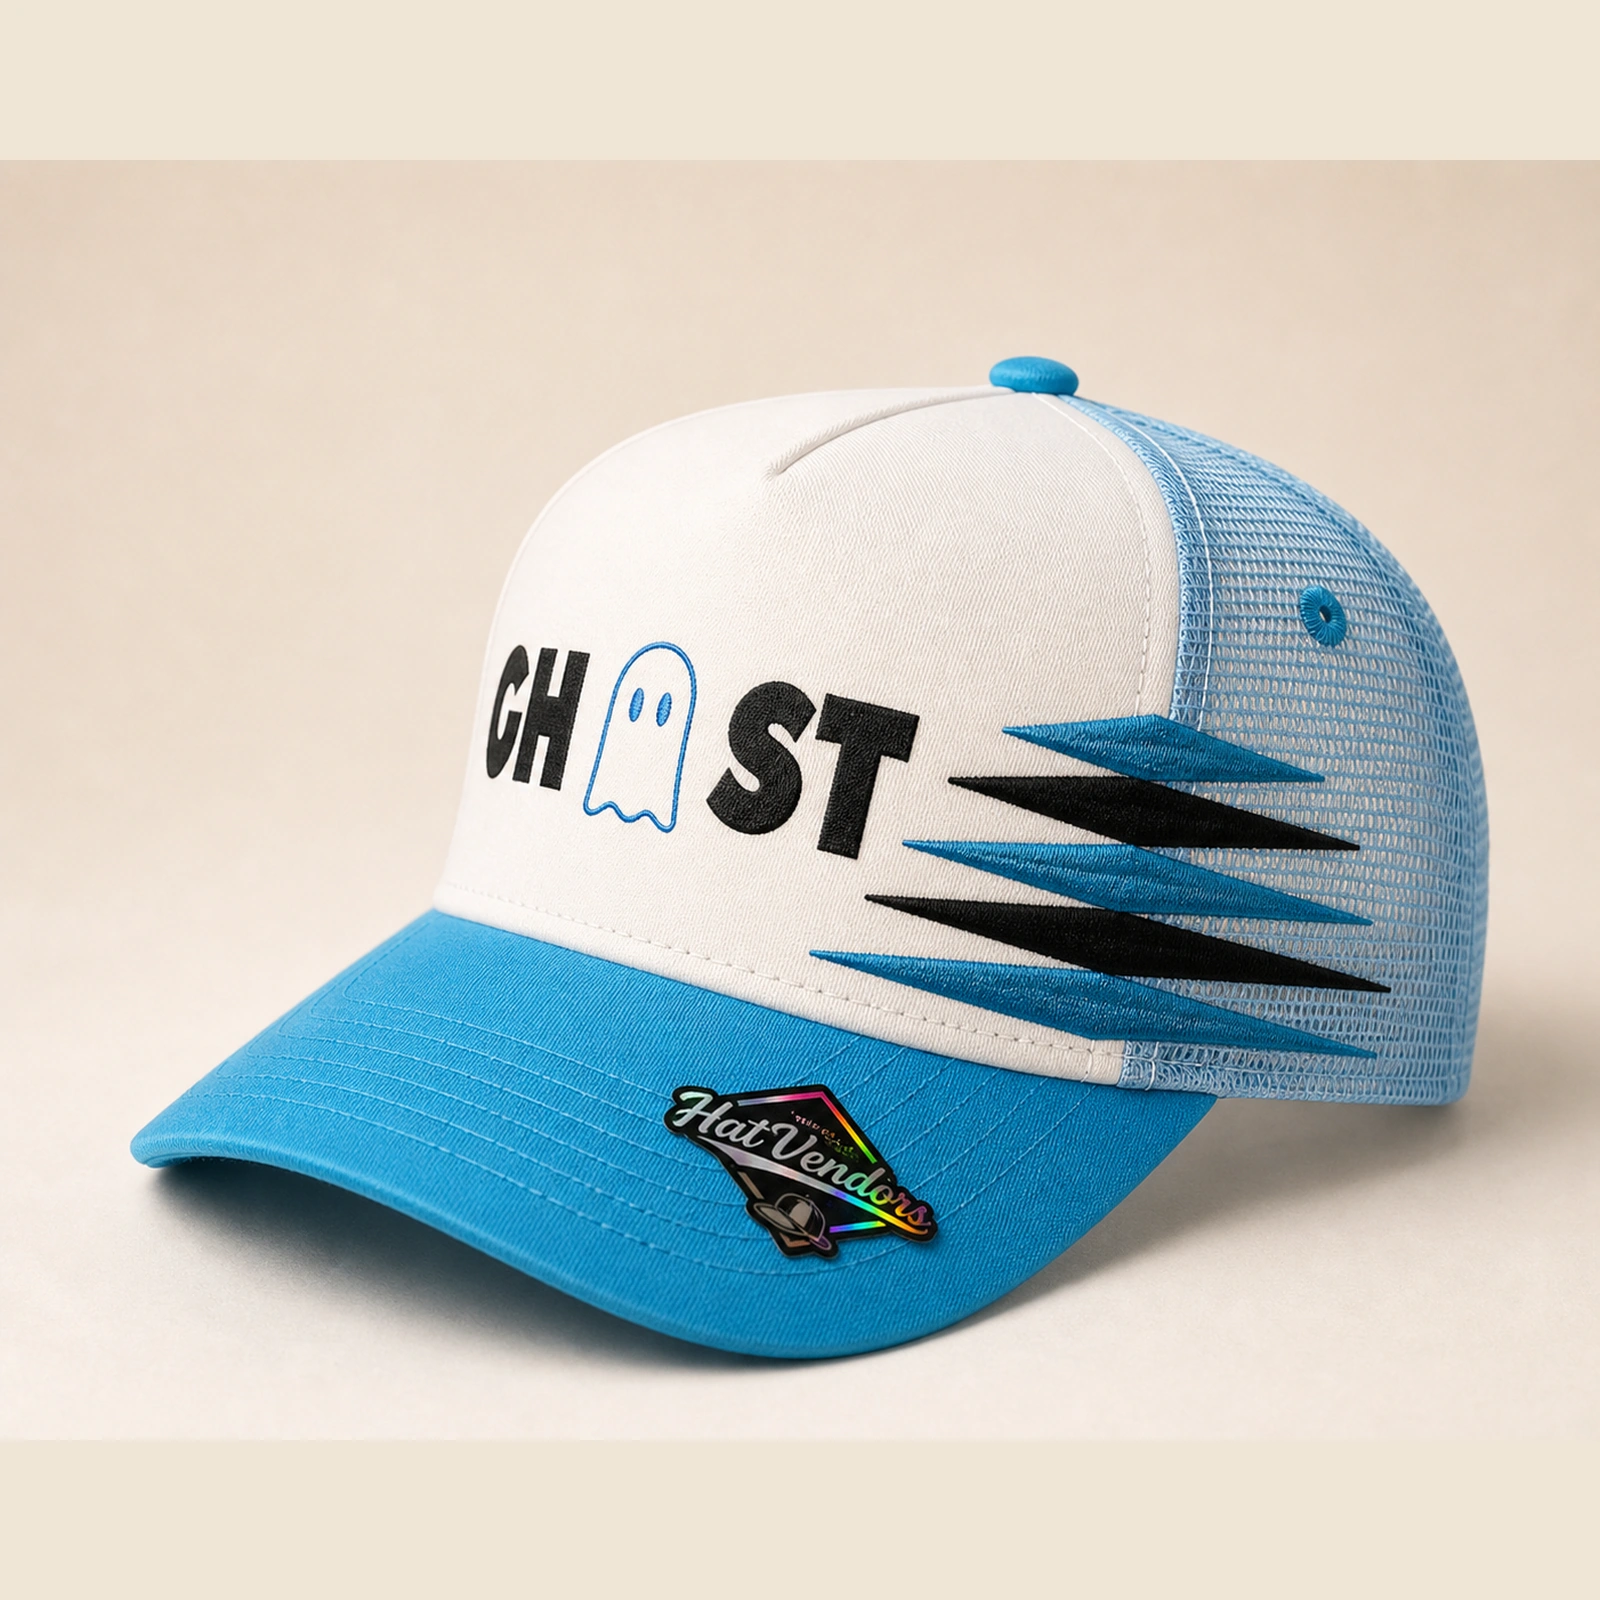
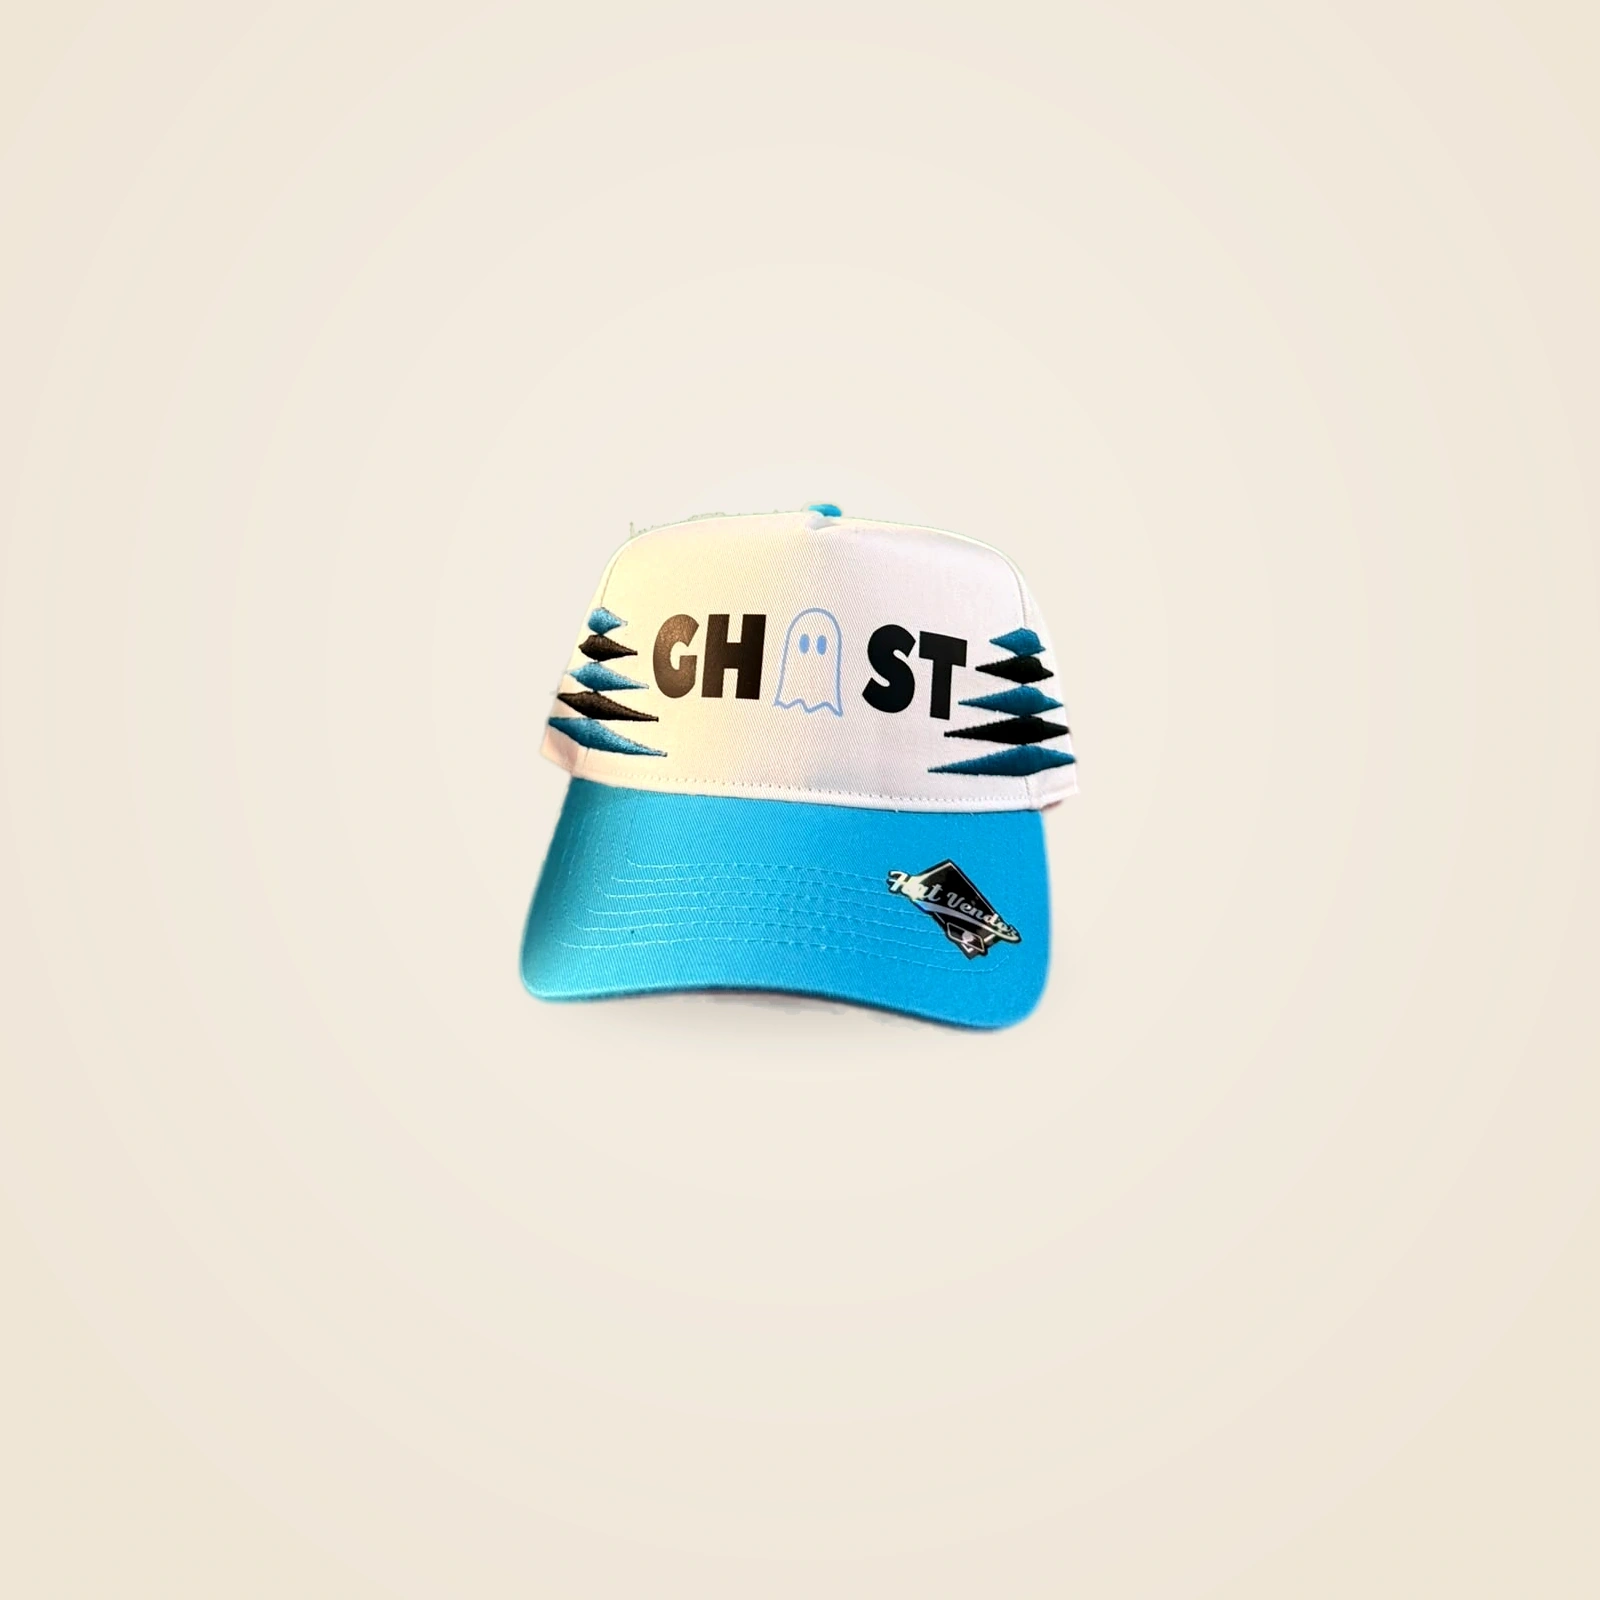
Fix cap 08 front photo and remove ghost alias labels

diff --git a/index.html b/index.html
@@ -3683,7 +3683,7 @@
           </div>
           <p>
             Cada color baja con energia de juego: home, away, defensa, buzzer y
-            flow de cancha para conectar GhostWear con El Fantasma.
+            flow de cancha para conectar GhostWear con la cultura de juego.
           </p>
         </div>
 
@@ -3711,7 +3711,7 @@
             <img src="./images/designed/ghostwear-designed-white.jpg" alt="Visual GhostWear claro con estilo fantasmal de marca" />
             <div class="media-copy">
               <span class="section-kicker">Hero post</span>
-              <h3>Fantasma claro, cancha real</h3>
+              <h3>Ghost claro, cancha real</h3>
               <p>Foto limpia, logo protagonista y energia de drop activo RD.</p>
             </div>
           </article>
@@ -3858,12 +3858,11 @@
                 <span>Visto en cancha</span>
               </div>
               <div>
-                <h3>Juan Miguel Suero, El Fantasma.</h3>
-                <p>Fundador y cara real de la historia GhostWear. Esta seccion queda lista para fotos oficiales de Juan usando la pieza y contenido directo de @juanco10.</p>
+                <h3>Juan Miguel Suero.</h3>
+                <p>Fundador y cara real de la historia GhostWear. Esta seccion queda lista para fotos oficiales usando la pieza y contenido directo de @juanco10.</p>
               </div>
               <div class="athlete-actions">
                 <a class="btn ig-link" href="https://www.instagram.com/juanco10/" target="_blank" rel="noopener">Ver @juanco10</a>
-                <span class="athlete-tag">Alias El Fantasma</span>
                 <span class="athlete-tag">90.4K seguidores</span>
               </div>
             </article>
@@ -3974,11 +3973,11 @@
       <div class="wrap story-band">
         <div class="card story-card">
           <span class="section-kicker">Historia de marca</span>
-          <h2>Nace de la cancha, del apodo y del flow RD.</h2>
+          <h2>Nace de la cancha y del flow RD.</h2>
           <p>
-            GhostWear vive alrededor de Juan Miguel Suero, El Fantasma: ropa
-            deportiva con presencia de calle, lista para entrenar, salir y
-            representar el movimiento sin explicar demasiado.
+            GhostWear vive alrededor de Juan Miguel Suero: ropa deportiva con
+            presencia de calle, lista para entrenar, salir y representar el
+            movimiento sin explicar demasiado.
           </p>
         </div>
         <div class="detail-grid">
@@ -4757,14 +4756,12 @@
       const cleanImage = cleanShortImages[product.color] || product.image;
       product.photos = [
         { label: "Limpia", src: cleanImage, view: cleanImage === product.image ? "real" : "clean" },
-        { label: "Real", src: product.image, view: "real" },
-        { label: "El Fantasma", src: cleanImage, view: "model" }
+        { label: "Real", src: product.image, view: "real" }
       ];
     });
     shortsCollectionProduct.photos = [
       { label: "Limpia", src: shortsCollectionProduct.image, view: "clean" },
-      { label: "Real", src: shortsCollectionProduct.realImage, view: "real" },
-      { label: "El Fantasma", src: ghostModelImages.court, view: "model" }
+      { label: "Real", src: shortsCollectionProduct.realImage, view: "real" }
     ];
     gearProducts.forEach(product => {
       if (product.photos) return;
@@ -4779,24 +4776,20 @@
       const modelImage = modelImageByCategory[product.category] || realImage;
       product.photos = [
         { label: "Limpia", src: product.image, view: product.category === "medias" ? "real" : "clean" },
-        { label: "Real", src: realImage, view: "real" },
-        { label: "El Fantasma", src: modelImage, view: "model" }
+        { label: "Real", src: realImage, view: "real" }
       ];
     });
     comboProducts[0].photos = [
       { label: "Real", src: realShortImages["Royal Blue"], view: "real" },
-      { label: "Medias", src: "./images/ghostwear-socks-real.jpg", view: "real" },
-      { label: "El Fantasma", src: ghostModelImages.court, view: "model" }
+      { label: "Medias", src: "./images/ghostwear-socks-real.jpg", view: "real" }
     ];
     comboProducts[1].photos = [
       { label: "Short", src: realShortImages["Light Gray"], view: "real" },
-      { label: "Gorra", src: firstCapProduct.image, view: "clean" },
-      { label: "El Fantasma", src: firstCapProduct.realImage, view: "clean" }
+      { label: "Gorra", src: firstCapProduct.image, view: "clean" }
     ];
     comboProducts[2].photos = [
       { label: "Short", src: realShortImages["Black"], view: "real" },
-      { label: "Hoodie", src: "./images/gear/ghostwear-hoodie.jpg", view: "real" },
-      { label: "El Fantasma", src: ghostModelImages.hoodie, view: "model" }
+      { label: "Hoodie", src: "./images/gear/ghostwear-hoodie.jpg", view: "real" }
     ];
     const shopCollections = [
       {
@@ -4950,8 +4943,7 @@
       imageWrap.dataset.galleryTitle = colorButton.dataset.productName;
       imageWrap.dataset.galleryPhotos = JSON.stringify([
         { label: "Limpia", src: colorButton.dataset.productImage, view: "clean" },
-        { label: "Real", src: colorButton.dataset.productRealImage, view: "real" },
-        { label: "El Fantasma", src: colorButton.dataset.productImage, view: "model" }
+        { label: "Real", src: colorButton.dataset.productRealImage, view: "real" }
       ]);
       imageWrap.dataset.view = "clean";
       title.textContent = colorButton.dataset.productName;